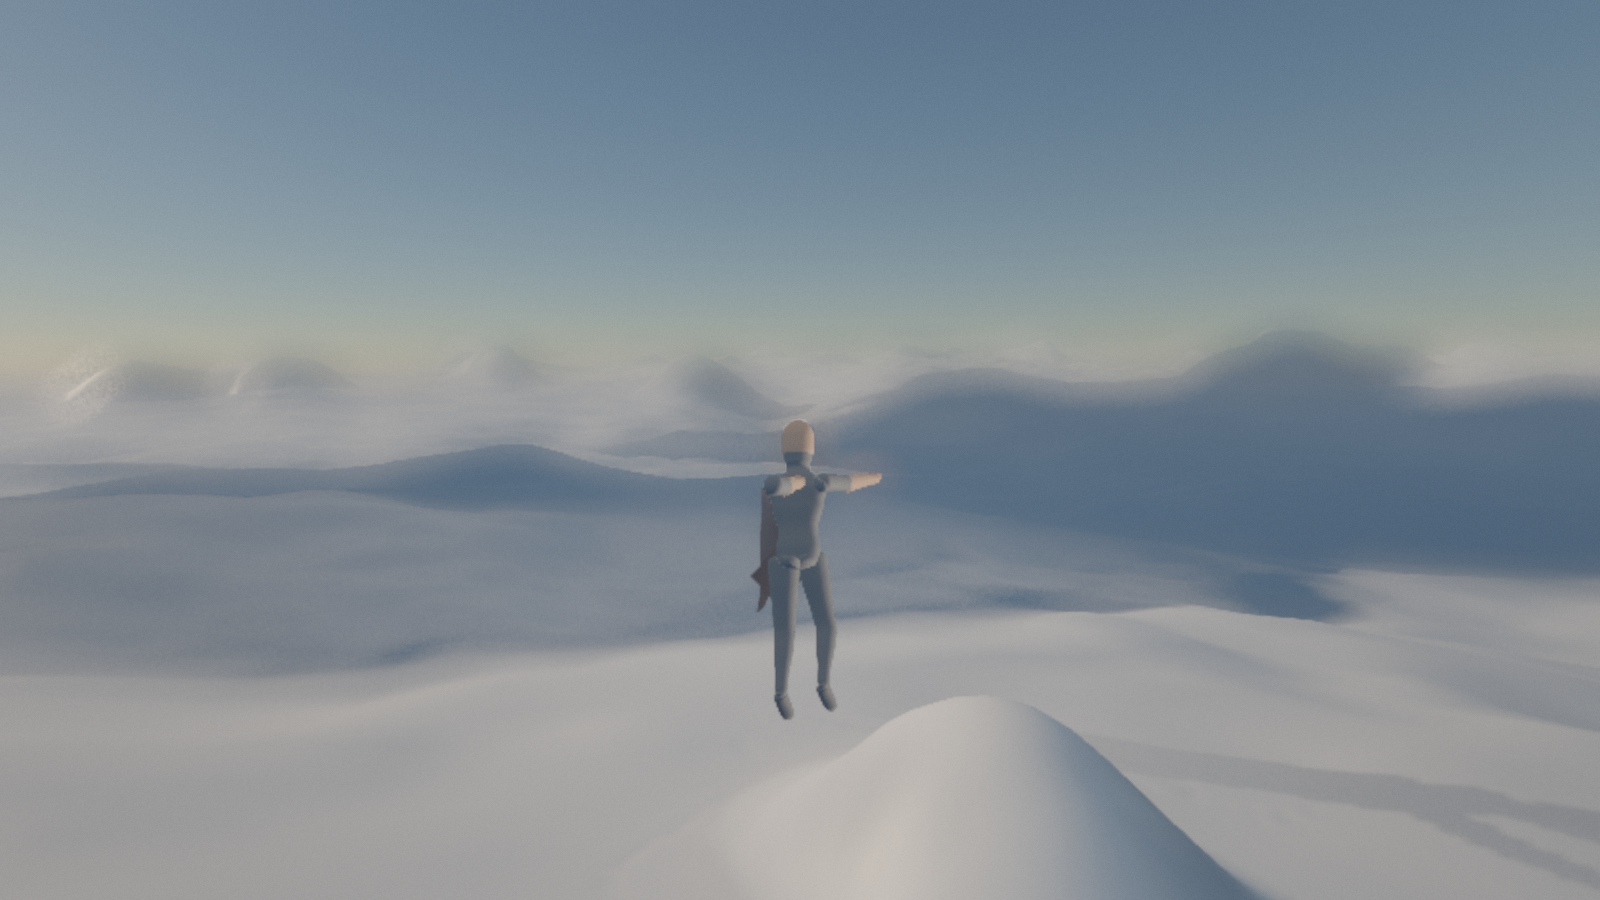
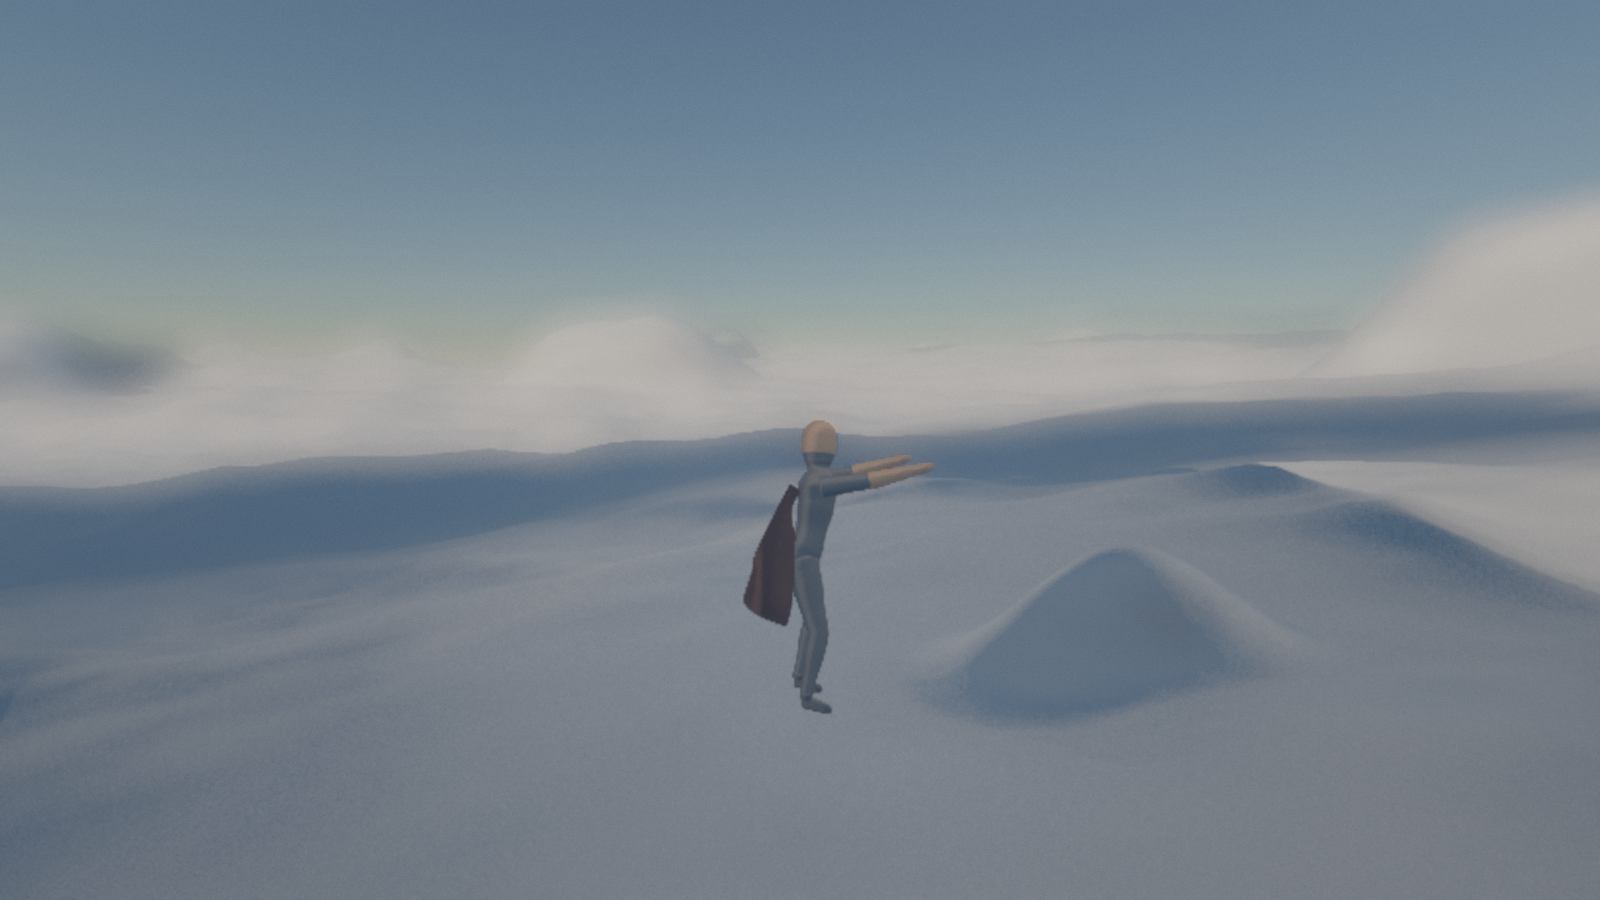
Phase 13 pass C: leaning from the waist up
A bender leans into what they are lifting, and that lean is most of what sells it.
It is also the one change in this phase that could break something older than
itself: the gait plants its feet in WORLD space, and the whole of Phase 7 rests on
a planted foot not moving. A lean built from the ankles pitches the pelvis, and
every planted foot goes with it.

So the lean is spent through the spine ABOVE the pelvis. The gait already chains
the torso off a leanZ slope — each segment leaning less than the one below, so the
head arrives nearly upright — and the leg solve reads none of it: the hips come
off leanX, pelvisY and the sway. A gesture term added to leanZ therefore costs the
feet nothing and buys almost all of the read, because what sells a body committing
to something is the chest and the head, not the shins. The arms ride it for free,
being positioned from the neck. Added as a TANGENT because that is what leanZ is —
a slope, not an angle.

                lean    chest z   feet moved
  raise         -9      -0.033      4.76 mm
  lower        +14      +0.056      4.78 mm
  sweep        +16      +0.064      4.81 mm
  draw         -13      -0.049      4.91 mm
  pedestal      +7      +0.028      4.94 mm
  ridge        +23
  wall         -17

THE LAST COLUMN IS THE PASS, and it means nothing without the row underneath it:
the same interval with NO key held moves the feet 4.67 mm. The character drifts a
[…]

diff --git a/src/character/gesture.ts b/src/character/gesture.ts
@@ -57,6 +57,16 @@ export interface GesturePose {
     readonly shoulder: number;
     /** Elbow flexion carried on top of the shoulder. */
     readonly elbow: number;
+    /**
+     * Torso pitch, radians, positive forward. Spent through the spine above the pelvis.
+     *
+     * DELIBERATELY NOT A WHOLE-BODY LEAN. The gait plants its feet against the pelvis, so a
+     * lean that started at the ankles would move the hips and drag every planted foot with
+     * them — the one thing Phase 7 exists to prevent. Leaning from the waist up costs the
+     * feet nothing and buys almost all of the read, because what sells a body committing to
+     * something is the chest and the head, not the shins.
+     */
+    readonly lean: number;
 }
 
 const DEG = Math.PI / 180;
@@ -72,25 +82,25 @@ const DEG = Math.PI / 180;
  *
  * They are stated as a table rather than a switch so that adding the sixth costs a row.
  */
-const POSES: Record<keyof Commanding, { shoulder: number; elbow: number }> = {
+const POSES: Record<keyof Commanding, { shoulder: number; elbow: number; lean: number }> = {
     // Hands up under the rising ground, palms turned to it. Past vertical-forward, which is
     // what separates lifting from pointing.
-    raise: { shoulder: 118 * DEG, elbow: 42 * DEG },
+    raise: { shoulder: 118 * DEG, elbow: 42 * DEG, lean: -9 * DEG },
     // Pressing down: arms forward and low, elbows nearly straight, weight going into it.
-    lower: { shoulder: 52 * DEG, elbow: 14 * DEG },
+    lower: { shoulder: 52 * DEG, elbow: 14 * DEG, lean: 14 * DEG },
     // Carrying material away — arms extended along the bearing the shove is taking.
-    sweep: { shoulder: 84 * DEG, elbow: 26 * DEG },
+    sweep: { shoulder: 84 * DEG, elbow: 26 * DEG, lean: 16 * DEG },
     // Drawing it back: the same line, but folded in toward the chest.
-    draw: { shoulder: 58 * DEG, elbow: 95 * DEG },
+    draw: { shoulder: 58 * DEG, elbow: 95 * DEG, lean: -13 * DEG },
     // Riding your own pillar up. Arms down and slightly back, pushing against the ground
     // that is lifting you — the one pose where the hands do NOT lead.
-    pedestal: { shoulder: -24 * DEG, elbow: 12 * DEG },
+    pedestal: { shoulder: -24 * DEG, elbow: 12 * DEG, lean: 7 * DEG },
     // Driving a wave away from you: both arms punched out along the bearing, elbows nearly
     // locked. The follow-through of a shove rather than the carry of one.
-    ridge: { shoulder: 101 * DEG, elbow: 7 * DEG },
+    ridge: { shoulder: 101 * DEG, elbow: 7 * DEG, lean: 23 * DEG },
     // Throwing a barrier up: arms hurled overhead, which is the highest the hands go of
     // anything here — and has to be, because the wall is the tallest thing they make.
-    wall: { shoulder: 158 * DEG, elbow: 22 * DEG },
+    wall: { shoulder: 158 * DEG, elbow: 22 * DEG, lean: -17 * DEG },
 };
 
 /** Held poses, in priority order. The first one down wins if two are. */
@@ -120,6 +130,7 @@ export class Gesture implements GesturePose {
     weight = 0;
     shoulder = 0;
     elbow = 0;
+    lean = 0;
     /** Which pose is being blended toward, or null. Read by the overlay and the probe. */
     active: keyof Commanding | null = null;
 
@@ -127,6 +138,7 @@ export class Gesture implements GesturePose {
     /** Held between frames so a released gesture relaxes from where it was, not from rest. */
     private _shoulder = 0;
     private _elbow = 0;
+    private _lean = 0;
     /** The strike currently playing out, and how far into it. Null between blows. */
     private _strike: keyof Commanding | null = null;
     private _strikeT = 0;
@@ -198,8 +210,10 @@ export class Gesture implements GesturePose {
                 // would arrive late and soft.
                 this._shoulder = pose.shoulder;
                 this._elbow = pose.elbow;
+                this._lean = pose.lean;
                 this.shoulder = this._shoulder;
                 this.elbow = this._elbow;
+                this.lean = this._lean;
                 return;
             }
         }
@@ -213,8 +227,10 @@ export class Gesture implements GesturePose {
         if (target !== null) {
             this._shoulder += (target.shoulder - this._shoulder) * k;
             this._elbow += (target.elbow - this._elbow) * k;
+            this._lean += (target.lean - this._lean) * k;
         }
         this.shoulder = this._shoulder;
         this.elbow = this._elbow;
+        this.lean = this._lean;
     }
 }

diff --git a/src/character/gait.ts b/src/character/gait.ts
@@ -537,7 +537,19 @@ export class Gait {
         // into speed: the line from your feet through your centre of mass has to stay
         // over the ground you are pushing against.
         const climb = clampAbs(this._slopeAlong(this._px, this._pz, this._sin, this._cos, 0.5), 0.8);
-        const leanZ = (Math.tan(s["char.lean"] * DEG) * (0.35 + 1.6 * this._run) * moving + climb * 0.32) * 1;
+        // THE GESTURE LEANS THE TORSO, AND ONLY THE TORSO. leanZ is spent through the spine
+        // chain below and is read by nothing in the leg solve — the hips come off `leanX`,
+        // `pelvisY` and the sway, none of which this touches. That is the whole reason a
+        // bending lean can be added here at all: a lean that started at the ankles would move
+        // the pelvis, and every planted foot would go with it, which is the one thing Phase 7
+        // exists to prevent. From the waist up costs the feet nothing and buys most of the
+        // read, because what sells a body committing to something is the chest and the head.
+        //
+        // Added as a TANGENT because that is what leanZ is — a slope, dz per unit dy, not an
+        // angle. The pose table states degrees and converts here, which keeps the one place
+        // that knows about the units next to the one that knows about the chain.
+        const gLean = this._gesture === null ? 0 : Math.tan(this._gesture.lean) * this._gesture.weight;
+        const leanZ = (Math.tan(s["char.lean"] * DEG) * (0.35 + 1.6 * this._run) * moving + climb * 0.32) * 1 + gLean;
         const leanX = clampAbs((mover.speed * this._turn) / G, 0.55) * s["char.bank"];
 
         // NEVER ASK A LEG FOR MORE THAN IT HAS. The bob above is the flat-ground case of a

diff --git a/README.md b/README.md
@@ -1416,7 +1416,53 @@ here, because the wall is the tallest thing the verbs make.
 weight 0.980 by `--strike=n --at=115`; [phase13-ridge-strike.png](shots/phase13-ridge-strike.png)
 is the ridge's, arms punched out along the bearing with the crest already running away.
 
-The event verbs are done. The **lean** is what is left in this phase.
+### Pass C: leaning from the waist up
+
+A bender leans into what they are lifting, and that lean is most of what sells it. It is also
+the one change in this phase that could break something older than itself: **the gait plants
+its feet in world space**, and the whole of Phase 7 rests on a planted foot not moving. A lean
+built from the ankles pitches the pelvis, and every planted foot goes with it.
+
+So the lean is spent through the spine **above** the pelvis. The gait already chains the torso
+off a `leanZ` slope — each segment leaning less than the one below, so the head arrives nearly
+upright — and the leg solve reads none of it: the hips come off `leanX`, `pelvisY` and the
+sway. Adding a gesture term to `leanZ` therefore costs the feet nothing and buys almost all of
+the read, because what sells a body committing to something is the chest and the head, not the
+shins. The arms ride it for free, being positioned from the neck.
+
+| | lean | chest z | feet moved |
+| --- | --- | --- | --- |
+| raise | −9° | −0.033 | 4.76 mm |
+| lower | +14° | +0.056 | 4.78 mm |
+| sweep | +16° | +0.064 | 4.81 mm |
+| draw | −13° | −0.049 | 4.91 mm |
+| pedestal | +7° | +0.028 | 4.94 mm |
+| ridge | +23° | — | — |
+| wall | −17° | — | — |
+
+**The last column is the pass**, and it only means anything next to the row underneath it:
+*the same interval with no key held moves the feet 4.67 mm*. The character drifts a few
+millimetres a second standing still — it is on a slope and gravity does what gravity does —
+so "the ankle moved" is evidence about the lean only if it moved more than it was going to
+anyway. The lean costs the feet between 0.1 and 0.3 mm over that floor. A lean that had
+reached the leg solve would move them by centimetres.
+
+Two earlier versions of this measurement were wrong, both by measuring the wrong thing:
+
+- the first held `C`, which **raises the ground the character is standing next to**, tilts it,
+  and moves them — so a 240 mm "foot slide" was the player sliding down a hill they had just
+  built. The probe now runs with `sys.verbs` off; `sys.gesture` is independent of it.
+- the second measured ankles in **character space**, which is pinned to the body — so the
+  idle sway moving the pelvis by a centimetre read as the feet sliding. World space is where
+  Phase 7 states the guarantee, so it is the frame the claim belongs in.
+
+`checkGait`'s six claims still pass, which is the independent confirmation that none of this
+reached the legs.
+
+[phase13-ridge-strike.png](shots/phase13-ridge-strike.png) is the biggest lean in the table —
+the whole torso pitched into the throw at the top of the blow, cape trailing behind it.
+
+Phase 13 is done.
 
 ### What the remaining phases are for
 
@@ -1436,9 +1482,10 @@ moving material sideways is a genuinely new primitive rather than a new call.
 [below](#phase-12--the-bending-vocabulary) as passes A–E: the transport primitive, sweep and
 draw, the ridge, the wall, and the gate that decides how much the ground is willing to give.
 
-**Phase 13 — the bender's body.** Pass A is done and is written up
-[below](#phase-13--the-benders-body): the character now takes a pose per bending verb. The
-gestures are arms only — the lean, the weight shift and the event verbs are what is left.
+**Phase 13 — the bender's body. Done**, and written up
+[below](#phase-13--the-benders-body) as passes A–C: a pose per held verb, a struck envelope
+for the two that are events, and a lean spent through the spine above the pelvis so the feet
+never learn about it.
 
 **Phase 14 — stakes.** A sandbox with no opposition. Weather that undoes the work, ground
 that collapses if undercut, a reason to build one thing rather than another. The substrate
